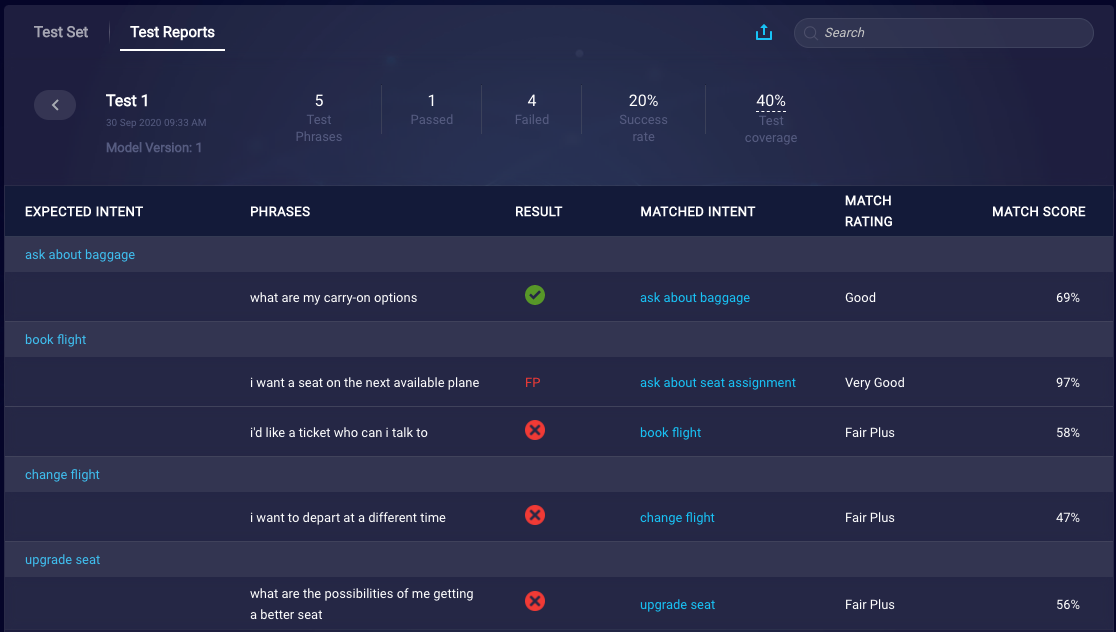
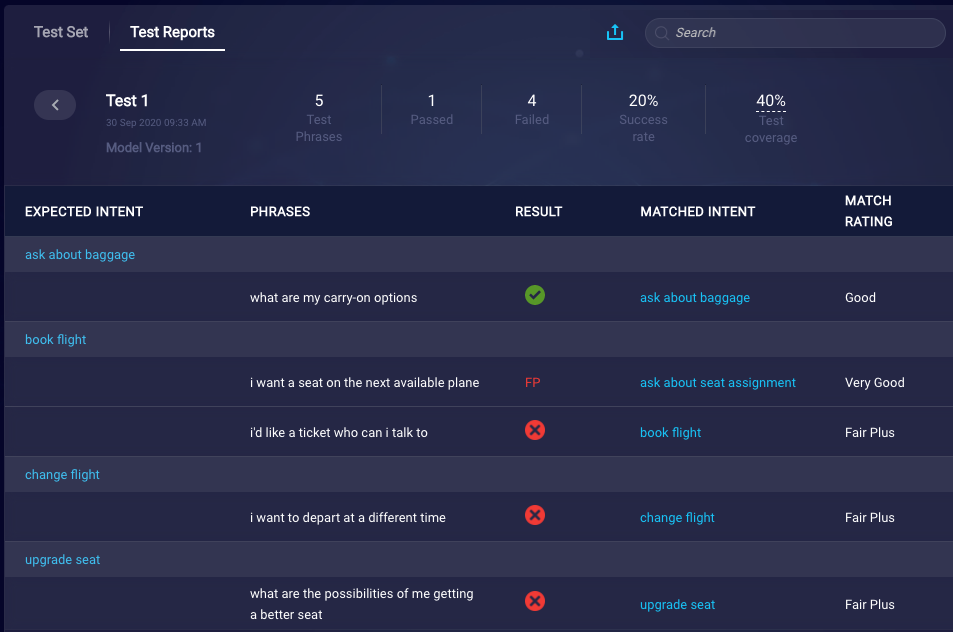
BA-6877 Hide Match Score column

diff --git a/pages/Documents/ConversationalAI/IntentBuilder/Testing/advanced-model-testing.md b/pages/Documents/ConversationalAI/IntentBuilder/Testing/advanced-model-testing.md
@@ -113,7 +113,7 @@ There are several, important metrics displayed:
 <img style="width:25px" src="img/ConvoBuilder/ib_model_tester_icon_passed.png"> <img style="width:25px" src="img/ConvoBuilder/ib_model_tester_icon_failed.png">
 <img style="width:25px" src="img/ConvoBuilder/ib_model_tester_icon_falsepos.png">
 * **Match Rating**: The rating that indicates the NLU’s level of confidence in the match, one of Very Good, Good, Fair Plus, Fair or Poor.
-* **Match Score**: The percentage score that reflects the NLU’s level of confidence in the match to the matched intent.
+<!-- * **Match Score**: The percentage score that reflects the NLU’s level of confidence in the match to the matched intent. -->
 
 #### Evaluating the report
 
@@ -146,7 +146,7 @@ A true comparison of reports -- to accurately determine if the domain/model is i
 
 1. Open the domain.
 2. Click **Model Tester** in the upper-left corner. 
-3. Click **Test Reports** tab.
+3. Click the **Test Reports** tab.
 4. In the dashboard that lists the reports, select the checkboxes for both reports.
 5. Click **Compare Reports** in the upper-right corner.
 
